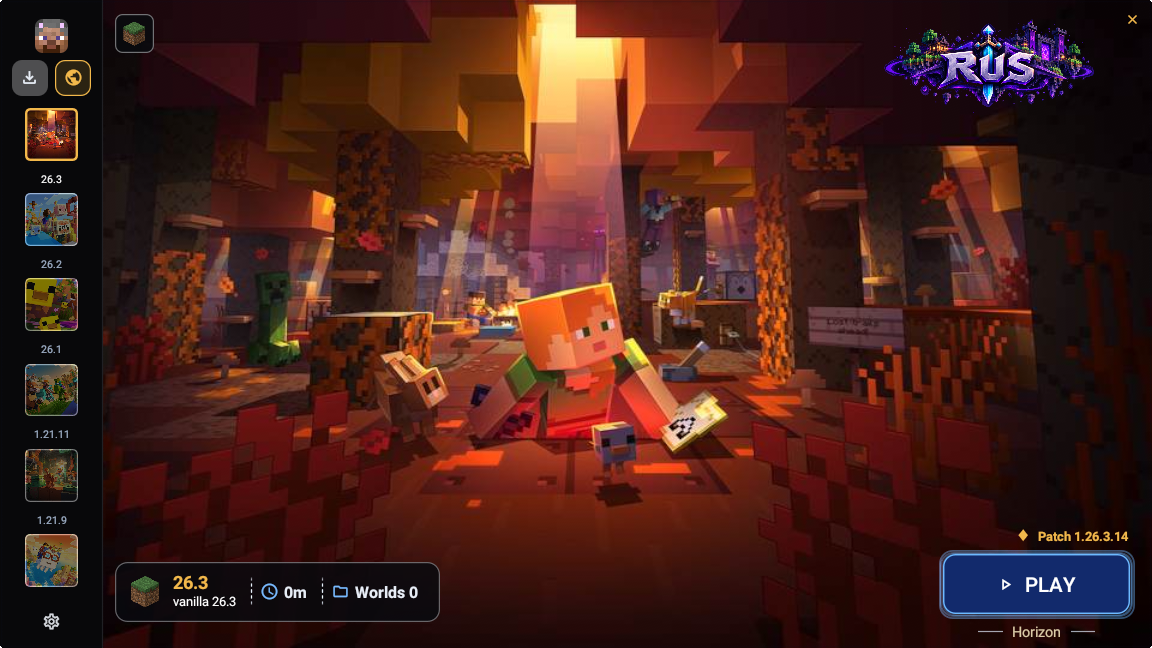
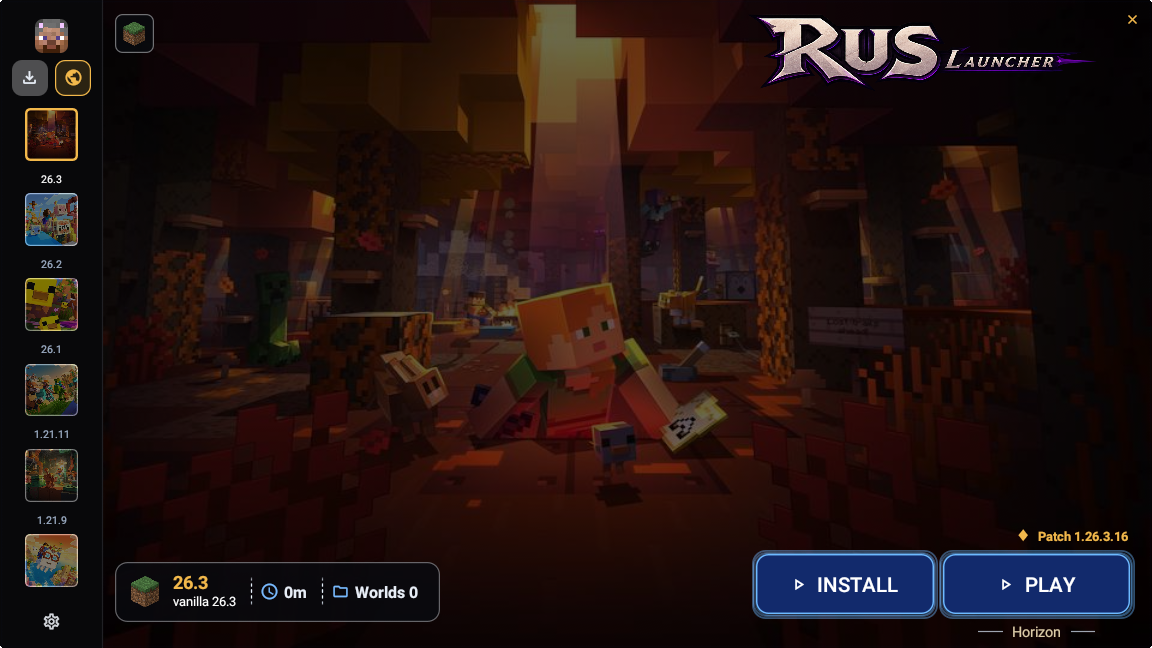
Use the new RUS LAUNCHER title mark.
The wide wordmark sits at the top of the window. The window icon and the README mark stay as they were.

diff --git a/src/tabs/home.rs b/src/tabs/home.rs
@@ -558,11 +558,13 @@ impl super::super::Desktop {
     pub(crate) fn paint_title_logo(&self, ui: &mut egui::Ui, full: egui::Rect) {
         let Some(tex) = &self.logo_title else { return };
         let size = tex.size();
-        let aspect = if size[1] == 0 { 1080.0 / 481.0 } else { size[0] as f32 / size[1] as f32 };
-        let h = 78.0;
-        let w = h * aspect;
+        let aspect = if size[1] == 0 { 1465.0 / 353.0 } else { size[0] as f32 / size[1] as f32 };
+        // Wide wordmark. Height is the letter height, not the old emblem's islands.
+        let h = 72.0;
+        let max_w = (full.width() - 220.0).max(180.0);
+        let w = (h * aspect).min(max_w);
         let rect = egui::Rect::from_min_size(
-            egui::pos2(full.right() - 48.0 - w, full.top() + 16.0),
+            egui::pos2(full.right() - 42.0 - w, full.top() + 8.0),
             egui::vec2(w, h),
         );
         ui.painter().image(

diff --git a/src/product.rs b/src/product.rs
@@ -3,7 +3,7 @@
 //! The line starts at `1.26.3.00`. An update changes the last two digits
 //! until the year or month component is moved on purpose.
 
-pub const VERSION: &str = "1.26.3.15";
+pub const VERSION: &str = "1.26.3.16";
 
 pub fn parse(tag: &str) -> Option<[u32; 4]> {
     let tag = tag.trim().trim_start_matches('v');

diff --git a/README.md b/README.md
@@ -132,7 +132,7 @@ The release is Rus Gate. Download it once.
 
 | Platform | File |
 | --- | --- |
-| Windows | [rus-gate.exe](https://github.com/obsifox/rus/releases/download/1.26.3.15/rus-gate.exe) |
+| Windows | [rus-gate.exe](https://github.com/obsifox/rus/releases/download/1.26.3.16/rus-gate.exe) |
 
 <p align="center">
   <img src="docs/gate.png" alt="Rus Gate, showing the install folder on the blue poster" width="280">
@@ -143,7 +143,7 @@ Run `rus-gate.exe`. The window is vertical, with no title bar. First run shows t
 
 `Rus Launcher.exe` does not show the install step. With a connection it reads **tags**, not the release list, downloads `rus_{version}.exe` from that tag's release, and starts it. With no connection it starts the installed build.
 
-Versions are `{version}.{year}.{month}.{patch}`, starting at `1.26.3.00`. An update changes the last two digits. Current tag: `1.26.3.15`.
+Versions are `{version}.{year}.{month}.{patch}`, starting at `1.26.3.00`. An update changes the last two digits. Current tag: `1.26.3.16`.
 
 Linux builds from source with `cargo build --release`. The published release is the Windows gate.
 
